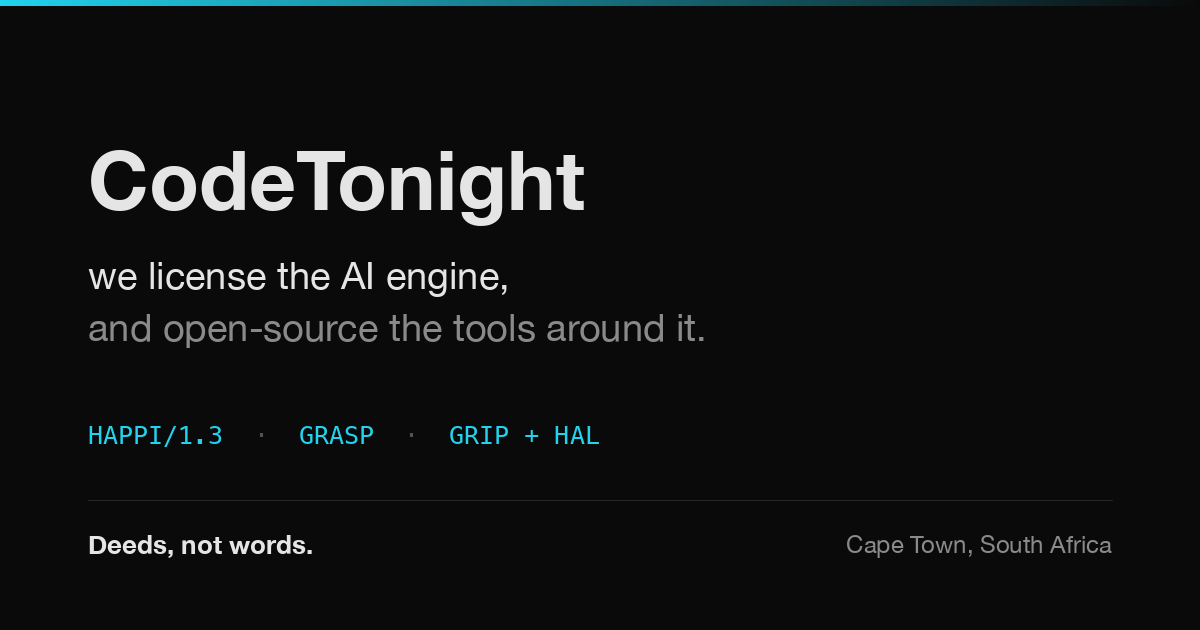
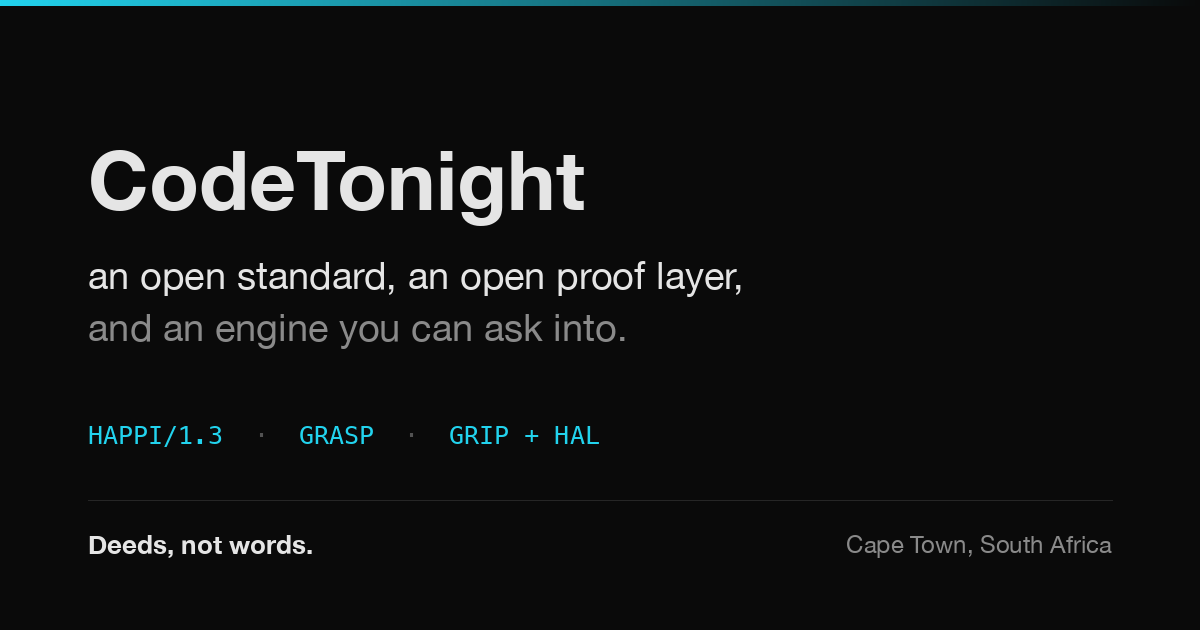
fix(site): stop the metadata and social card leading with "we license the AI engine"
The visible page was updated to drop licensing language, but the copy that
most people actually see was missed:

- <title>, which is the browser tab and the Google search headline
- og:title, which is the headline on every shared link
- meta description, og:description and the JSON-LD description, all of which
  still read "the GRIP+HAL engine is licensed"
- images/og-card.png, which had "we license the AI engine," rendered into the
  image itself

So the diagram and the closing section said one thing while the search result,
the social preview and the tab said the opposite.

All five text surfaces now read:

  CodeTonight - an open standard, an open proof layer, and an engine you can
  ask into

  Open-core AI from Cape Town. HAPPI (the open standard) and GRASP (the open
  proof layer) are free and clone-able today. GRIP+HAL are by invite while we
  prepare the open-source release. Deeds, not words.

The social card was re-rendered to match and visually inspected before commit.

Verified: zero occurrences of "licens" anywhere in index.html, and the JSON-LD
still parses.

Primary Author: V (Lourens Cornelius "Laurie" Scheepers)
Provenance: drafted with Claude Opus 4.5 (claude-opus-5). Headline chosen by
V>> from four options.

Changed region(s): [[0.0617, 0.4222, 0.6167, 0.5429]]

diff --git a/index.html b/index.html
@@ -5,16 +5,17 @@
   <meta charset="UTF-8">
   <meta name="viewport" content="width=device-width, initial-scale=1.0">
   <meta name="description"
-    content="Open-core AI from Cape Town. HAPPI (the open standard) and GRASP (the open proof layer) are free; the GRIP+HAL engine is licensed; the tools around it are clone-able today.">
+    content="Open-core AI from Cape Town. HAPPI (the open standard) and GRASP (the open proof layer) are free and clone-able today. GRIP+HAL are by invite while we prepare the open-source release. Deeds, not words.">
   <meta name="theme-color" content="#000000">
-  <title>CodeTonight — we license the AI engine, and open-source the tools around it</title>
+  <title>CodeTonight — an open standard, an open proof layer, and an engine you can ask into</title>
 
   <link rel="icon" type="image/svg+xml" href="/favicon.svg">
   <link rel="canonical" href="https://codetonight-sa.github.io/">
 
-  <meta property="og:title" content="CodeTonight — we license the AI engine, and open-source the tools around it">
+  <meta property="og:title"
+    content="CodeTonight — an open standard, an open proof layer, and an engine you can ask into">
   <meta property="og:description"
-    content="Open-core AI from Cape Town. HAPPI (the open standard) and GRASP (the open proof layer) are free; the GRIP+HAL engine is licensed; the tools around it are clone-able today. Deeds, not words.">
+    content="Open-core AI from Cape Town. HAPPI (the open standard) and GRASP (the open proof layer) are free and clone-able today. GRIP+HAL are by invite while we prepare the open-source release. Deeds, not words.">
   <meta property="og:type" content="website">
   <meta property="og:url" content="https://codetonight-sa.github.io/">
   <meta property="og:site_name" content="CodeTonight">
@@ -47,7 +48,7 @@
       "image": "https://codetonight-sa.github.io/images/og-card.png",
       "email": "development@codetonight.co.za",
       "slogan": "Deeds, not words.",
-      "description": "Open-core AI from Cape Town. HAPPI (the open standard) and GRASP (the open proof layer) are free; the GRIP+HAL engine is licensed; the tools around it are clone-able today.",
+      "description": "Open-core AI from Cape Town. HAPPI (the open standard) and GRASP (the open proof layer) are free and clone-able today. GRIP+HAL are by invite while we prepare the open-source release.",
       "address": {
         "@type": "PostalAddress",
         "addressLocality": "Cape Town",
